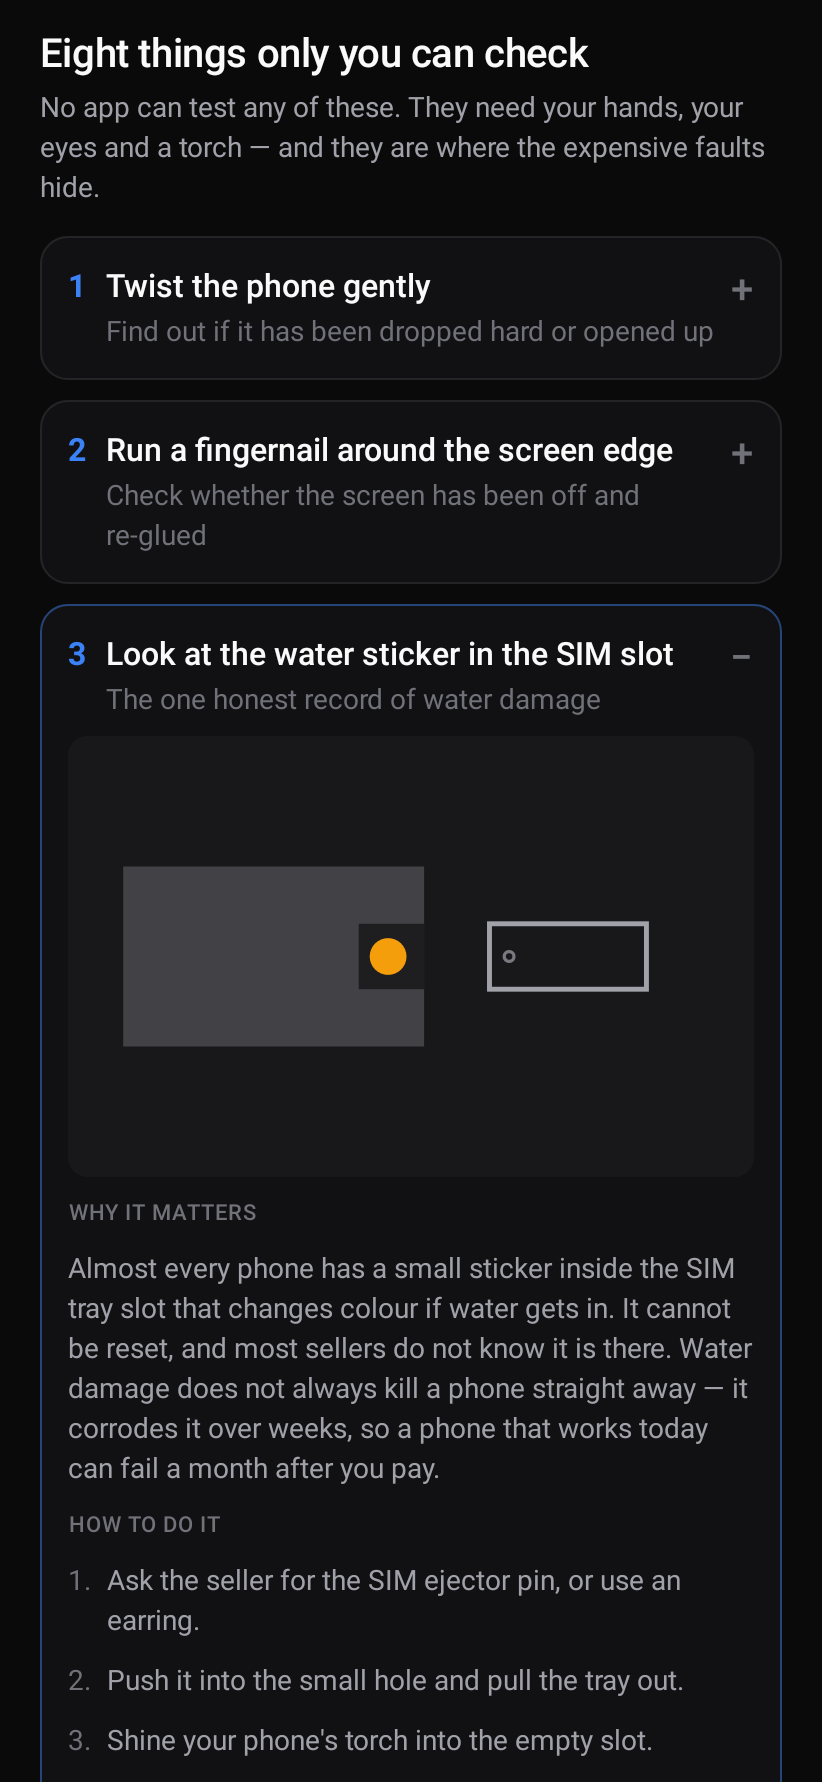
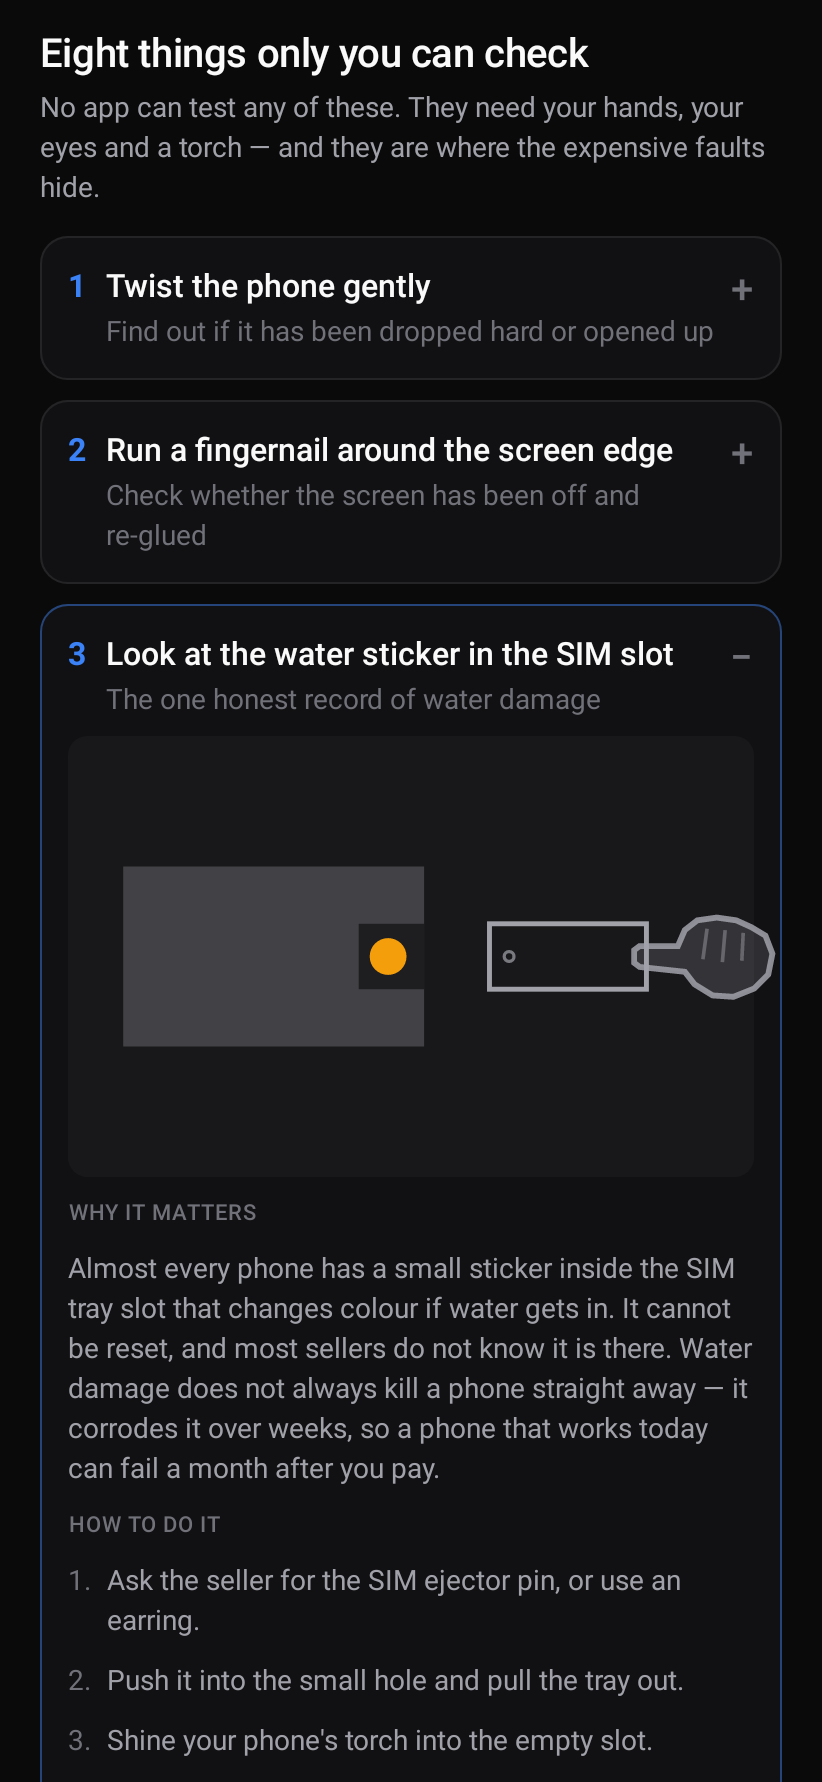
Rebuild both hands from the silhouette, after the render showed a potato
The first attempt put the finger detail inside the shape as parallel stripes and
left the outline a smooth oval. Rendered large, the fist was a potato with grill
marks and the pointing hand became a ping-pong paddle once rotated.

At thirty pixels an interior line is texture, and texture is noise. The folded
fingers are now scallops in the outline itself, the thumb leaves the outline
with a notch behind it, and the creases run across the fingers rather than along
them: a line parallel to the knuckles describes a surface, a line perpendicular
to them describes a gap.

Stroke is thinner too. The scallops sit about a thirtieth of the hand apart, and
the old weight closed them back up.

Changed region(s): [[0.7603, 0.4938, 0.9428, 0.5864]]

diff --git a/feature/guide/src/main/kotlin/com/phoneproof/feature/guide/GuideDiagrams.kt b/feature/guide/src/main/kotlin/com/phoneproof/feature/guide/GuideDiagrams.kt
@@ -107,10 +107,12 @@ internal fun DrawScope.drawHand(
         path.close()
 
         drawPath(path, ink.copy(alpha = 0.20f * alpha))
+        // Thin, because the scallops between the fingers are only about a thirtieth of the hand
+        // apart: a heavier stroke closes the gaps and hands the shape back to being an oval.
         drawPath(
             path,
             ink.copy(alpha = 0.85f * alpha),
-            style = Stroke(width = length * 0.042f),
+            style = Stroke(width = length * 0.030f),
         )
 
         // The folded fingers. Without them the fist is a bean, and the bean is what the old two-bar
@@ -120,7 +122,7 @@ internal fun DrawScope.drawHand(
                 color = ink.copy(alpha = 0.45f * alpha),
                 start = Offset(tip.x + from.x * length, tip.y + from.y * length),
                 end = Offset(tip.x + to.x * length, tip.y + to.y * length),
-                strokeWidth = length * 0.026f,
+                strokeWidth = length * 0.020f,
             )
         }
     }
@@ -129,57 +131,98 @@ internal fun DrawScope.drawHand(
 /**
  * The pointing hand, as fractions of its own length, fingertip at the origin and pointing up.
  *
- * Walked clockwise from the left edge of the index finger. The thumb is the bulge at 0.72 down the
- * left side: it is what stops the shape reading as a mitten.
+ * Two things carry the reading, and both are in the **silhouette**:
+ *
+ *  - The folded fingers are **scallops down the right edge**, not lines drawn inside the shape. The
+ *    first attempt used three parallel interior stripes; rendered, they read as grill marks and the
+ *    whole hand as a leaf. At thirty pixels an interior line is texture, and texture is noise.
+ *  - The thumb **leaves the outline** on the left, with a notch behind it. A thumb absorbed into a
+ *    smooth curve is not a thumb, and without one the shape was a potato.
+ *
+ * Walked clockwise from the left edge of the index finger.
  */
 private val PointingHand = listOf(
-    Offset(-0.075f, 0.045f),
-    Offset(-0.045f, 0.005f),
-    Offset(0.045f, 0.005f),
-    Offset(0.075f, 0.045f),
-    Offset(0.075f, 0.320f),
-    Offset(0.190f, 0.370f),
-    Offset(0.260f, 0.460f),
-    Offset(0.280f, 0.600f),
-    Offset(0.260f, 0.740f),
-    Offset(0.210f, 0.850f),
-    Offset(0.150f, 0.950f),
+    // The index finger: long and narrow, because it is the part that has to look deliberate.
+    Offset(-0.055f, 0.050f),
+    Offset(-0.032f, 0.006f),
+    Offset(0.032f, 0.006f),
+    Offset(0.055f, 0.050f),
+    Offset(0.055f, 0.330f),
+    // Knuckles, then three folded fingers as bumps down the right edge.
+    Offset(0.150f, 0.370f),
+    Offset(0.205f, 0.445f),
+    Offset(0.160f, 0.520f),
+    Offset(0.235f, 0.585f),
+    Offset(0.180f, 0.665f),
+    Offset(0.240f, 0.725f),
+    Offset(0.185f, 0.805f),
+    Offset(0.215f, 0.865f),
+    Offset(0.140f, 0.945f),
+    // Wrist.
     Offset(0.020f, 1.000f),
-    Offset(-0.130f, 0.970f),
-    Offset(-0.230f, 0.870f),
-    Offset(-0.290f, 0.720f),
-    Offset(-0.280f, 0.570f),
-    Offset(-0.200f, 0.440f),
-    Offset(-0.110f, 0.370f),
+    Offset(-0.140f, 0.970f),
+    // The thumb, out to the left with a notch behind it.
+    Offset(-0.225f, 0.885f),
+    Offset(-0.345f, 0.780f),
+    Offset(-0.375f, 0.680f),
+    Offset(-0.300f, 0.605f),
+    Offset(-0.205f, 0.585f),
+    // Back up the palm to the base of the index finger.
+    Offset(-0.160f, 0.460f),
+    Offset(-0.100f, 0.380f),
 )
 
-/** The same hand closed, for the steps where something is held rather than touched. */
+/**
+ * The same hand closed, for the steps where something is held rather than touched.
+ *
+ * The knuckles are scalloped along the **leading** edge — the end nearest the fingertip anchor — so
+ * that the four folded fingers are what meets whatever is being gripped. Rebuilt for the same reason
+ * as the pointing hand: as a smooth oval with stripes across it, this was a potato.
+ */
 private val Fist = listOf(
-    Offset(-0.140f, 0.100f),
-    Offset(0.100f, 0.060f),
-    Offset(0.220f, 0.140f),
-    Offset(0.280f, 0.300f),
-    Offset(0.300f, 0.500f),
-    Offset(0.280f, 0.720f),
-    Offset(0.220f, 0.880f),
-    Offset(0.060f, 1.000f),
-    Offset(-0.120f, 0.980f),
-    Offset(-0.240f, 0.860f),
-    Offset(-0.310f, 0.660f),
-    Offset(-0.300f, 0.420f),
-    Offset(-0.240f, 0.220f),
+    // Four knuckles across the gripping edge.
+    Offset(-0.170f, 0.175f),
+    Offset(-0.105f, 0.060f),
+    Offset(-0.020f, 0.120f),
+    Offset(0.050f, 0.030f),
+    Offset(0.130f, 0.100f),
+    Offset(0.200f, 0.045f),
+    Offset(0.265f, 0.140f),
+    Offset(0.310f, 0.105f),
+    Offset(0.340f, 0.225f),
+    // Down the far side and round the wrist.
+    Offset(0.350f, 0.440f),
+    Offset(0.315f, 0.680f),
+    Offset(0.255f, 0.860f),
+    Offset(0.120f, 0.990f),
+    Offset(-0.060f, 1.000f),
+    Offset(-0.200f, 0.920f),
+    // The thumb, crossing the front of the fist.
+    Offset(-0.300f, 0.800f),
+    Offset(-0.400f, 0.660f),
+    Offset(-0.380f, 0.540f),
+    Offset(-0.285f, 0.500f),
+    Offset(-0.240f, 0.345f),
 )
 
+/**
+ * Where one finger ends and the next begins.
+ *
+ * Drawn from the valley between two scallops **into** the hand, across the direction of the fingers
+ * rather than along it. The stripes this replaced ran the other way, which is why they read as a
+ * grille: a line parallel to the knuckle edge describes a surface, a line perpendicular to it
+ * describes a gap.
+ */
 private val PointingHandCreases = listOf(
-    Offset(-0.020f, 0.500f) to Offset(0.200f, 0.530f),
-    Offset(-0.040f, 0.640f) to Offset(0.190f, 0.660f),
-    Offset(-0.030f, 0.780f) to Offset(0.170f, 0.790f),
+    Offset(0.160f, 0.520f) to Offset(0.055f, 0.505f),
+    Offset(0.180f, 0.665f) to Offset(0.070f, 0.650f),
+    Offset(0.185f, 0.805f) to Offset(0.085f, 0.790f),
 )
 
 private val FistCreases = listOf(
-    Offset(-0.150f, 0.330f) to Offset(0.220f, 0.330f),
-    Offset(-0.170f, 0.530f) to Offset(0.240f, 0.530f),
-    Offset(-0.160f, 0.730f) to Offset(0.220f, 0.730f),
+    Offset(-0.020f, 0.120f) to Offset(-0.030f, 0.330f),
+    Offset(0.130f, 0.100f) to Offset(0.120f, 0.320f),
+    Offset(0.265f, 0.140f) to Offset(0.250f, 0.330f),
 )
 
 // ---------------------------------------------------------------------------------------------
